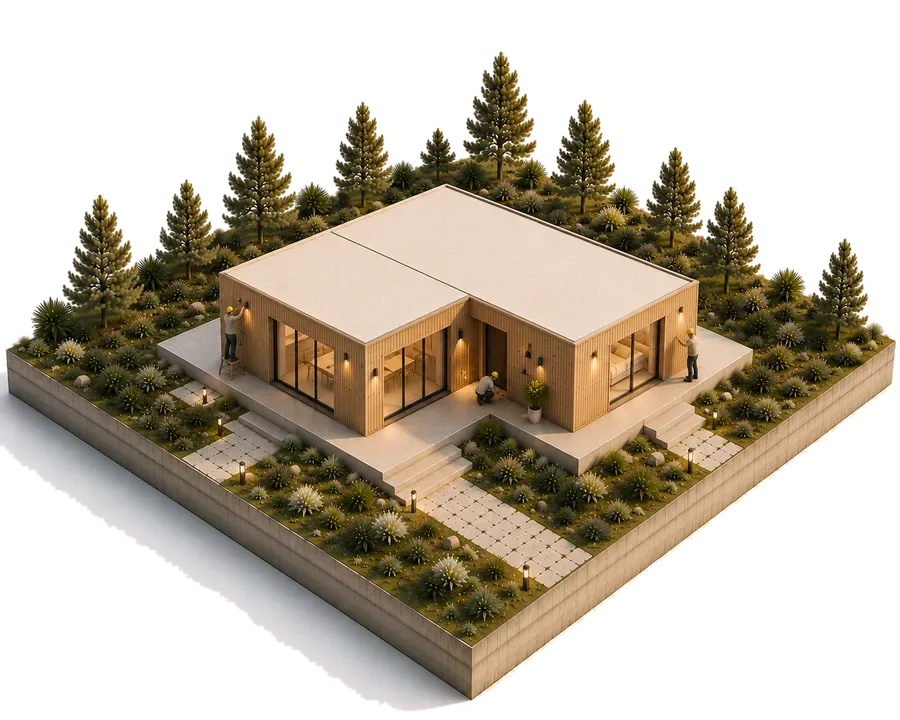
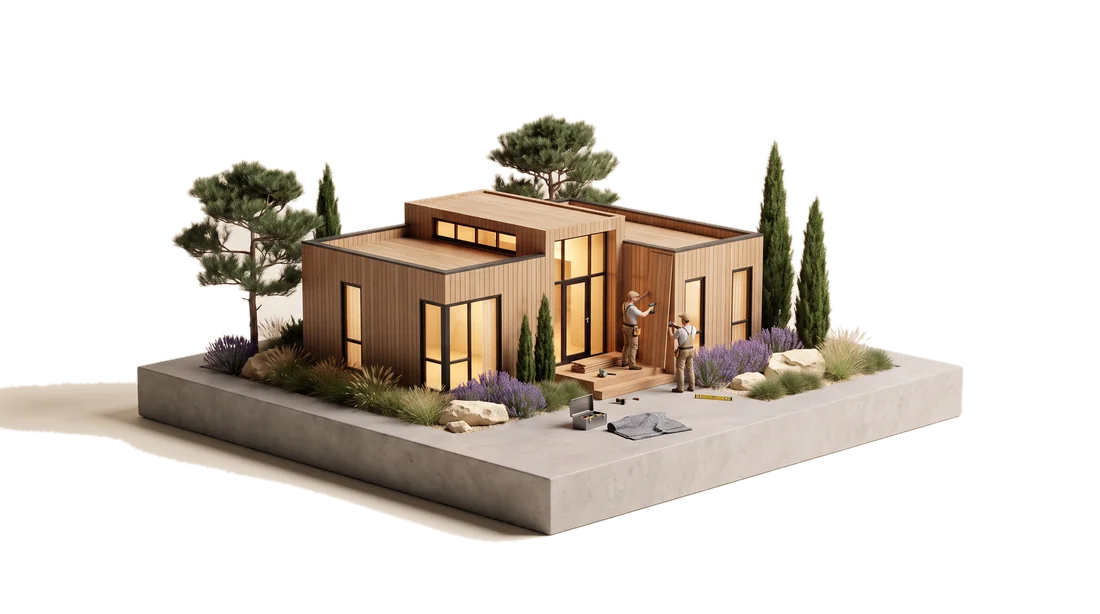
Notre procédé: 2e génération d'illustrations (plans serrés, personnages)
Remplace le premier lot de rendus (vues de dessus larges) par des
plans plus serrés avec des personnages qui racontent mieux chaque
étape. Récupérées depuis la branche main (upload atterri au mauvais
endroit) via git show plutôt qu'un merge. Détourage adapté : ces
rendus ont un fond en dégradé (pas plat comme le lot précédent), donc
la couleur de fond unique est remplacée par une surface quadratique
ajustée par régression pour estimer le fond localement à chaque pixel.

diff --git a/src/components/ProcedeCarousel.tsx b/src/components/ProcedeCarousel.tsx
@@ -54,11 +54,36 @@ import { AnimatePresence, motion, useReducedMotion } from "framer-motion";
  * étape à l'autre au lieu de réapparaître à chaque fois, cohérent avec
  * "la navigation du bas glisse doucement d'une étape à l'autre".
  *
- * Illustrations : détourées (fond retiré, flood fill Python/numpy —
- * historique complet dans les rounds git précédents), WebP alpha dans
- * `public/images/procede/`. `Illustration` retombe sur un chiffre
- * fantôme si `illustrationUrl` est `null` (filet de sécurité, plus
- * utilisé actuellement — toutes les étapes ont leur vraie image).
+ * Illustrations, 2e génération (client insatisfait du premier lot de
+ * rendus "vue de dessus large" — remplacés par un nouveau lot en plan
+ * plus serré, style "produit exposé en studio", avec personnages
+ * (poignée de main, ouvriers) qui racontent mieux chaque étape).
+ * Envoyées en commentaire de la PR #1 (`user-attachments`, bloqué côté
+ * réseau comme d'habitude) puis correctement uploadées via `Add file →
+ * Upload files` — mais sur la branche `main` par erreur (pas la branche
+ * de travail) : récupérées via `git show origin/main:<fichier>` plutôt
+ * que `git pull`, sans qu'il soit nécessaire de merger `main`.
+ *
+ * Détourage : même technique flood fill que le lot précédent, mais
+ * avec une complication nouvelle — le fond de ces rendus n'est PAS une
+ * couleur plate, c'est un dégradé (vignette studio, un coin jusqu'à
+ * ~57 de distance colorimétrique d'un autre). Un unique `bg_color`
+ * moyen (technique du lot précédent) laissait de larges zones de fond
+ * non détourées (visible en testant sur fond rouge). Corrigé en
+ * ajustant une surface quadratique lissée (régression aux moindres
+ * carrés sur les pixels d'une fine bande le long des 4 bords, modèle
+ * `a + bx + cy + dx² + ey² + fxy` par canal) plutôt qu'une couleur
+ * unique — le flood fill compare alors chaque pixel à SA valeur de
+ * fond attendue localement, pas à une moyenne globale. Un résidu
+ * minuscule de fond non retiré subsiste dans un interstice de feuillage
+ * sur une image (bloqué par les branches, jamais connecté au bord) —
+ * vérifié invisible une fois composé sur le vrai fond blanc des cartes
+ * (seulement visible en test adversarial sur fond rouge vif).
+ *
+ * WebP alpha dans `public/images/procede/` (mêmes noms de fichiers que
+ * le lot précédent, contenu remplacé). `Illustration` retombe sur un
+ * chiffre fantôme si `illustrationUrl` est `null` (filet de sécurité,
+ * plus utilisé actuellement — toutes les étapes ont leur vraie image).
  */
 
 const ETAPES = [

diff --git a/README.md b/README.md
@@ -4738,6 +4738,54 @@ jour) ; aucune erreur console imputable à ce composant (les 403/502
 observés viennent d'assets Higgsfield distants sans rapport, déjà
 documentés plus haut dans ce fichier).
 
+### 29 juillet 2026 — Notre procédé : 2e génération d'illustrations + détourage à dégradé
+
+Client pas satisfait du premier lot d'illustrations (vues de dessus
+larges façon plan de masse) — nouveau lot envoyé, cette fois en plan
+plus serré façon "objet produit", avec des personnages qui racontent
+mieux chaque étape (poignée de main pour la remise des clés, ouvriers
+qui posent une porte pour les finitions, etc.).
+
+**Transfert des fichiers, round 3** : images d'abord envoyées en
+commentaire de la PR #1 (`github.com/user-attachments/...`) — bloqué
+par la même politique réseau que d'habitude (403 confirmé). Cette
+fois-ci le client a bien utilisé "Add file → Upload files" comme
+demandé, mais **sur la branche `main`** au lieu de la branche de
+travail `claude/add-ui-ux-pro-max-skill-ep18ap`. Pas besoin de merger
+`main` pour autant : `git show origin/main:<fichier> > local` suffit à
+extraire un fichier précis d'une autre branche sans toucher à celle sur
+laquelle on travaille.
+
+**Détourage, nouvelle complication** : contrairement au lot précédent
+(fond quasi parfaitement plat), ces rendus ont un fond en dégradé
+(vignette studio) — jusqu'à ~57 de distance colorimétrique entre deux
+coins de la même image. La technique du round précédent (une seule
+couleur de fond moyenne + flood fill) laissait de larges bandes de fond
+non détourées, révélées en testant sur un fond rouge vif. Corrigée en
+remplaçant la couleur de fond unique par une **surface quadratique
+ajustée par régression aux moindres carrés** (`numpy.linalg.lstsq`) sur
+les pixels d'une fine bande le long des 4 bords de l'image (l'objet est
+toujours entouré de marge, donc cette bande est purement du fond) —
+modèle `a + bx + cy + dx² + ey² + fxy` par canal, qui capture le
+dégradé du fond bien mieux qu'une simple interpolation bilinéaire
+depuis les 4 coins (essayée en intermédiaire, encore insuffisante). Le
+flood fill compare ensuite chaque pixel à sa valeur de fond ATTENDUE
+localement plutôt qu'à une moyenne globale. Un minuscule résidu de fond
+non détouré subsiste sur une image, dans un interstice de feuillage
+(zone de fond entourée de branches, jamais connectée au bord par un
+chemin de pixels "fond") — vérifié invisible une fois composé sur le
+vrai fond blanc des cartes (`--brume`), seulement visible dans le test
+adversarial sur fond rouge.
+
+Fichiers WebP réencodés (mêmes noms `procede-0X.webp`, contenu
+remplacé, 48-72 Ko chacun). Aucun changement de code nécessaire dans
+`ProcedeCarousel.tsx` au-delà du commentaire de tête — les chemins
+`illustrationUrl` pointaient déjà vers ces noms de fichiers.
+
+**Vérifications** : capture Playwright des étapes 01, 02 et 05 sur le
+site réel confirmant le nouveau rendu (détourage propre, ombre
+synthétique cohérente, aucun liseré visible) ; `tsc` propre.
+
 ## À faire avant la mise en prod
 
 - **Vulnérabilités npm restantes (`postcss`/`sharp` bundlés dans
